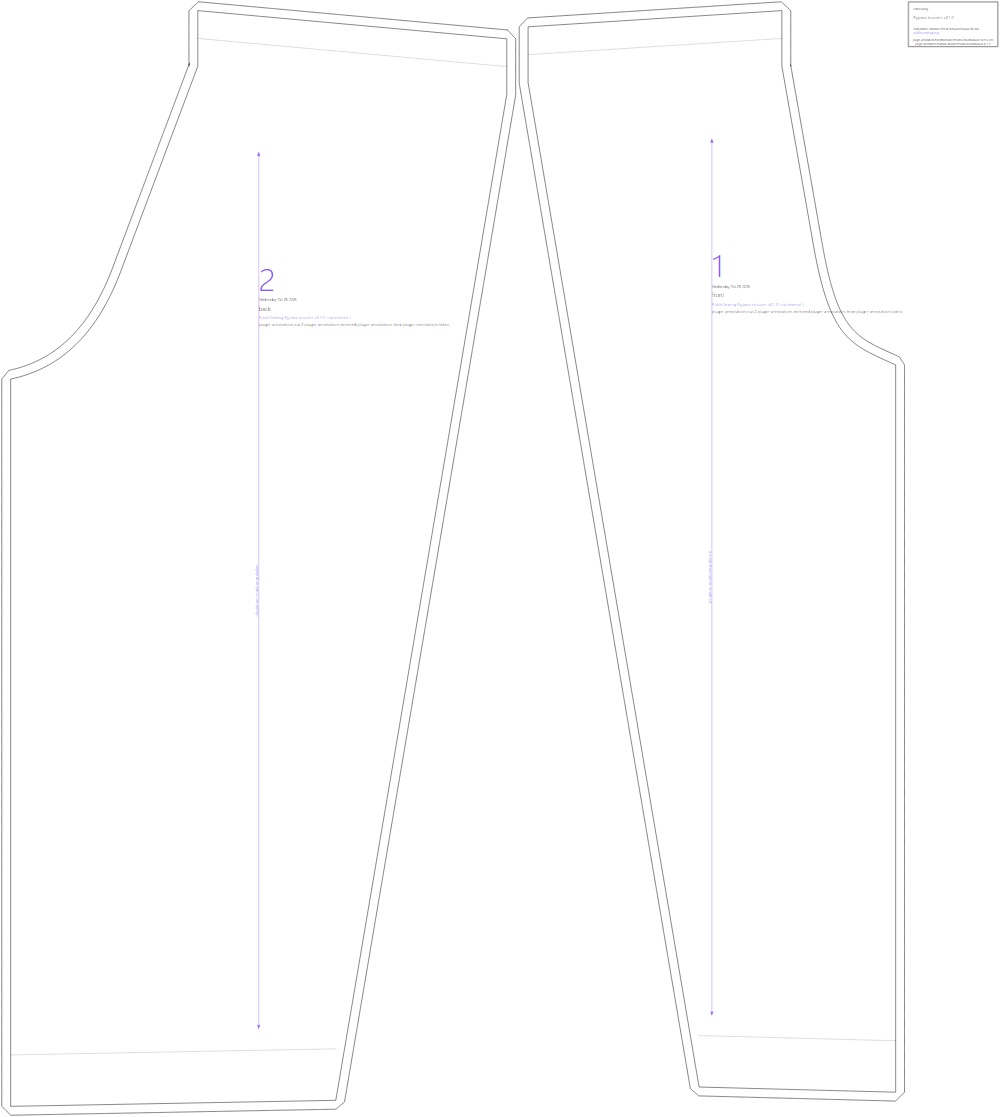
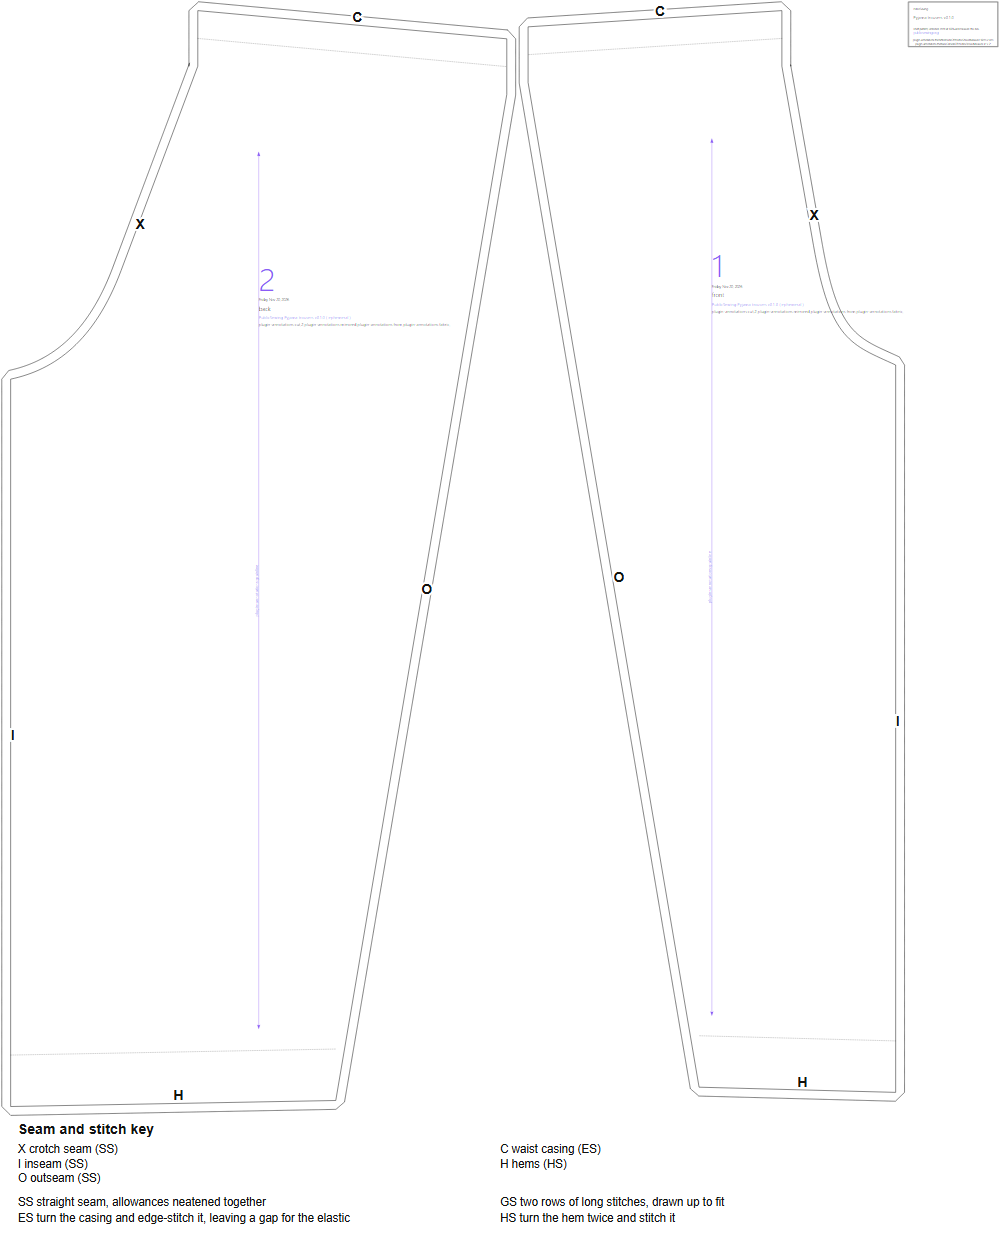
Map the bloomers and pyjama trousers; fix page-check's PDF key test
The bloomers get their own map (crotch, inseam, outseam, casing, band);
the pyjama trousers merge it, dropping the band for hems. page-check's
"PDF contains the embedded map key" test missed seam names containing
parentheses, which PDF strings escape. Pre-PR checks: full npm test
(159,314 pass), site build, and page-check over all 99 mapped designs.

diff --git a/PATTERN_MAP_ROLLOUT.md b/PATTERN_MAP_ROLLOUT.md
@@ -46,13 +46,13 @@ Refactor, in order (snapshot `chore-coat` and `boys-work-coat` first; `compare` 
 3. **Done.** An anchor `between` two points sits on the piece's seam line nearest their midpoint; anchors can also sit on a `snippet` (a buttonhole).
 4. **Done.** The chore coat's sleeve F labels moved to the biceps points; previews regenerated.
 
-Mapped so far (2026-11-20): 97 of 122 designs. Sixteen have their own map, `construction.yaml` and numbered brief steps (chore coat, skirt coat, pantry jacket, shop coat, barber's coat, mackinaw, hunting coat, Harrington jacket, windbreaker, waistcoat, bar vest, women's box coat, tailored jacket, boys' suit jacket, gored skirt, suit trousers), and more have steps since (Norfolk jacket, overall pants, service shirt, circular skirt, culottes). The rest carry a map without steps, inherited through `extends` or merged onto the parent's (`patternMap: { merge: true }`, where a `null` piece or code drops the inherited one): the peacoat line, the trouser family, the Bent line (military tunic, topcoat, suit jacket, sack coat, surtout, tailcoat, frock coat, scout coat, fitted overcoat, dinner jacket), the yoke template's 13 smocks, shirts, nightwear and dresses, the fitted jacket, kimono jacket, Inverness coat, and the yoke, kilt, gathered, tiered and apron riding skirts. A design without its own steps keeps its plain page preview; its downloads and preview image carry the codes.
+Mapped so far (2026-11-20): 99 of 122 designs. Sixteen have their own map, `construction.yaml` and numbered brief steps (chore coat, skirt coat, pantry jacket, shop coat, barber's coat, mackinaw, hunting coat, Harrington jacket, windbreaker, waistcoat, bar vest, women's box coat, tailored jacket, boys' suit jacket, gored skirt, suit trousers), and more have steps since (Norfolk jacket, overall pants, service shirt, circular skirt, culottes). The rest carry a map without steps, inherited through `extends` or merged onto the parent's (`patternMap: { merge: true }`, where a `null` piece or code drops the inherited one): the peacoat line, the trouser family, the Bent line (military tunic, topcoat, suit jacket, sack coat, surtout, tailcoat, frock coat, scout coat, fitted overcoat, dinner jacket), the yoke template's 13 smocks, shirts, nightwear and dresses, the fitted jacket, kimono jacket, Inverness coat, and the yoke, kilt, gathered, tiered and apron riding skirts, and the pyjama trousers (on the bloomers, which have their own map). A design without its own steps keeps its plain page preview; its downloads and preview image carry the codes.
 
-`test/pattern-map.test.mjs` resolves every map at every test variant (adult, child, stout), checks the map's numbers against the printed ones, and that no two pieces print the same number. It found and the maps or drafts fixed: inheritors through untraced parents, variant anchors that went missing, and duplicate printed numbers (Harrington; smoking jacket). The full suite and site build have not been re-run since the first six maps (Dave: progress first).
+`test/pattern-map.test.mjs` resolves every map at every test variant (adult, child, stout), checks the map's numbers against the printed ones, and that no two pieces print the same number. It found and the maps or drafts fixed: inheritors through untraced parents, variant anchors that went missing, and duplicate printed numbers (Harrington; smoking jacket). The full suite, a site build and `page-check.mjs` over all 99 mapped designs passed on 2026-11-20.
 
-Not mapped (25): bloomers, churidar, joggers, salwar, pyjama trousers; fitted dress, fitted kameez, shell top, wrap dress, princess dress; cardigan, henley, turtleneck; aprons, cape, cape overcoat, dolman cape, jumpsuit, kalidar kurta, t-shirt; tunic skirt (no darts at children's sizes, so no anchors); and the fitted jacket's descendants (double-dart jacket, riding habit, Prince Albert jacket, riding frock coat), which opt out.
+Not mapped (23): churidar, joggers, salwar; fitted dress, fitted kameez, shell top, wrap dress, princess dress; cardigan, henley, turtleneck; aprons, cape, cape overcoat, dolman cape, jumpsuit, kalidar kurta, t-shirt; tunic skirt (no darts at children's sizes, so no anchors); and the fitted jacket's descendants (double-dart jacket, riding habit, Prince Albert jacket, riding frock coat), which opt out.
 
-Next: those 25, then numbered steps (`construction.yaml`) for the mapped designs that lack them. Before publishing: one full `npm test`, a site build and `page-check.mjs` over every mapped design.
+Next: those 23, then numbered steps (`construction.yaml`) for the mapped designs that lack them. Before publishing: one full `npm test`, a site build and `page-check.mjs` over every mapped design.
 
 ## 1. Define the shared data
 
